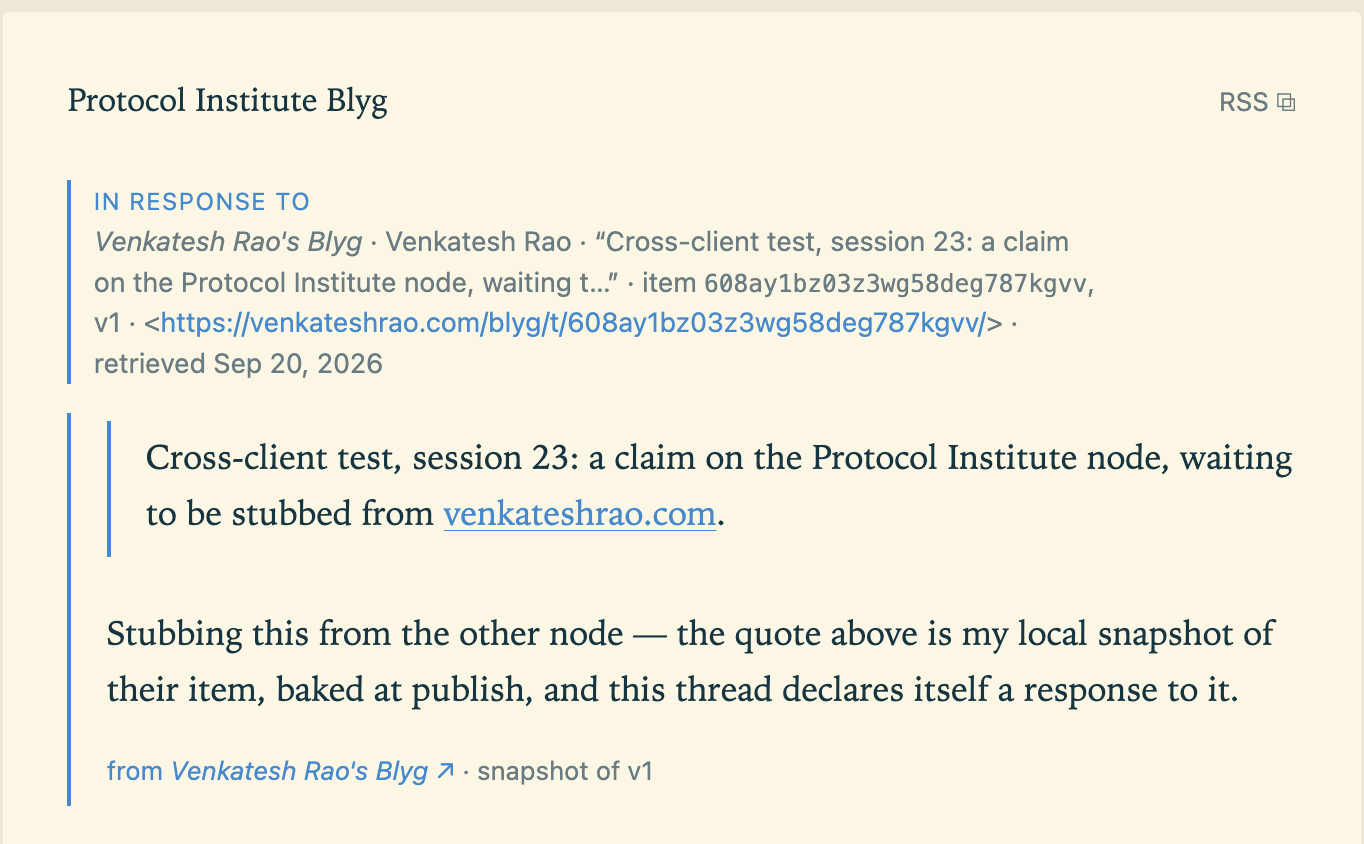
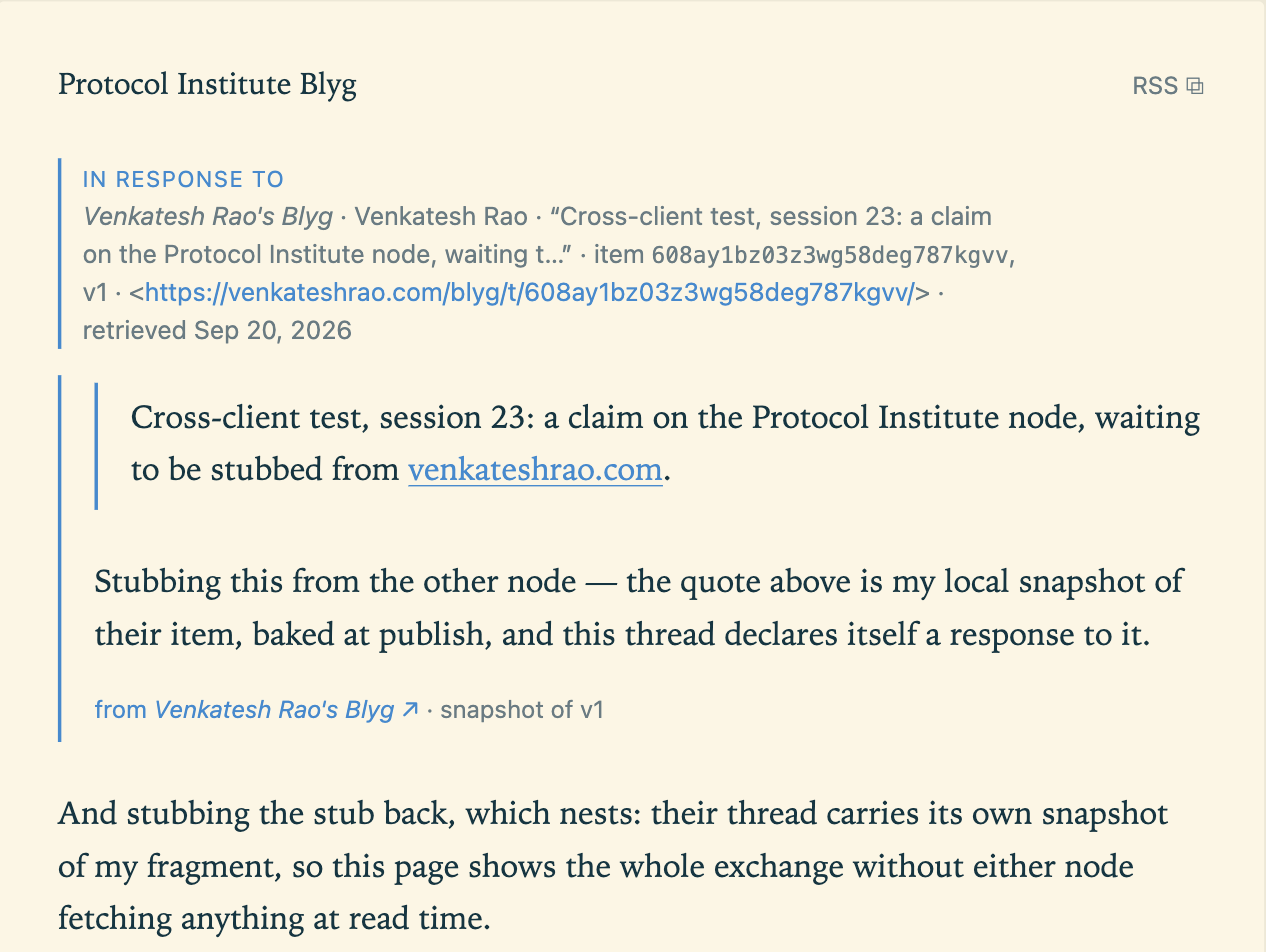
Re-shoot every screenshot; fix a slide that was wrong about a live page
The screenshot slides were unreadable from a room. The old captures were
full-page shots at 100% zoom with the content column filling about a third
of the frame, so the thing each slide points at — the version line, the
provenance caption, the citation's fine print — landed near 10px at 1080p,
against the content guide's 24px floor. All six re-captured live at 1.35-1.6x
zoom in a narrow window and cropped to the artifact.

Slide 13 changed shape, not just scale. A three-pane capture of the whole
editor became the preview pane alone: the argument there is one visual fact —
these blocks are blue here and not blue there — and the source pane is
already covered as code on slide 10, in type the room can read. A portrait
crop was tried and rejected after measuring, because a tall image is
height-constrained and starves at four bullets exactly as the guide warns.

Two things fell out of the re-shoot:

- The venkateshrao node's theme is now dark, so its session-21 screenshots
  were stale as well as small. Both nodes are now shot as they actually
  render, and slide 08 gets a cue turning the mismatch into the point it
  actually is: themes are the author's, and the protocol's only claim about
  them is the CSS contract.

- Slide 11 was wrong. It said "One of these I wrote. One a model wrote." The
  live item document has two generated scopes and both paragraphs carry
  blyg-tk-gen; the only thing written by hand is the one-line heading. This
[…]

Changed region(s): [[0.0308, 0.0616, 0.955, 0.9858], [0.8934, 0.0616, 0.955, 0.154]]

diff --git a/talks/2026-09-24-blygger/talk.md b/talks/2026-09-24-blygger/talk.md
@@ -133,7 +133,7 @@ naming its cost. Sets up pins (slide 15) as the answer without spending the word
 
 ## A blyg is fragments and threads
 
-![The public page of Venkatesh Rao's Blyg, showing a fragment titled Shopping List with a version line reading v3, pinned v1 and v3.](images/public-feed.jpg)
+![A fragment on Venkatesh Rao's Blyg, in his chosen dark theme: the heading "Shopping List", a nine-item numbered list, and beneath it a version line reading "v3 · pinned: v1, v3" followed by created and most-recent dates.](images/public-feed.png)
 
 - Two units, not one: a **fragment** (a note) and a **thread** (fragments composed)
 - Every item wears its own revision history in public — `v3 · pinned: v1, v3`
@@ -155,7 +155,7 @@ page furniture.
 
 ## Transclusion: quote by reference
 
-![A thread page showing a quoted fragment in a blockquote with a blue rule, captioned "fragment, snapshot of v2".](images/transclusion.jpg)
+![A thread on Venkatesh Rao's Blyg: one line of the author's own text, then a quoted fragment set off by a blue vertical rule, captioned "fragment ↗ · snapshot of v2".](images/transclusion.png)
 
 - Write `![[id]]` on its own line — you get the fragment, not a link to it
 - Snapshotted at publish: the reader gets the bytes you saw, forever
@@ -190,8 +190,11 @@ difference between transclusion-as-embed (which breaks) and transclusion-as-snap
 
 - This is the same mechanism as two slides ago, across a network boundary. Live,
   between my two nodes, right now.
-- **Nobody can read this from the room — walk the shape:** citation block at the top,
-  their paragraph quoted inside it, my own text below. Three layers, one page.
+- Three layers, top to bottom: the citation, their paragraph quoted inside it, my own
+  text below. Point at each.
+- **The colour is not a slide mistake** — it's a different person's blyg, and themes
+  are the author's. The protocol has no opinion about them; the CSS contract only says
+  which classes a quote must keep.
 - **The snapshot is local.** I quote what I read. Their server being down can't stop me
   publishing, and their later edit can't rewrite my quote.
 - The header block is the citation — what it answers, at which version, with the URL
@@ -260,14 +263,15 @@ and then demonstrated on the next two slides.
 
 ## Which paragraph was generated?
 
-![A published thread on the Protocol Institute blyg. Two paragraphs of prose about the origins of life, with no visual marking distinguishing generated text.](images/tk-published.jpg)
+![A published thread on the Protocol Institute blyg: a one-line heading, then two paragraphs of prose about the origins of life, with nothing visually distinguishing any of it as generated.](images/tk-published.png)
 
-- A real published page. One of these I wrote. One a model wrote.
+- A real published page. **How much of this did a model write?**
 
 **Cues**
 
-- Real published page from the other node. Two paragraphs. One mine, one a model's.
+- Real published page from the other node. A heading and two paragraphs.
 - **Ask the room. Let it sit.** Take a guess or two. Do not answer on this slide.
+- Expect someone to pick the short one. The long confident paragraph reads as human.
 
 **Notes**
 
@@ -285,7 +289,8 @@ two, then advance.
 
 **Cues**
 
-- Answer: you can't tell. Nothing on the page marks it.
+- **Answer: both paragraphs.** The only thing I wrote is the one-line heading.
+- You couldn't tell. Nothing on the page marks it.
 - Show what the page *does* carry: JSON provenance; the class, visible in view-source
   in three seconds.
 - **Why no tint:** provenance is self-asserted, nothing verifies it, a colour would
@@ -301,34 +306,37 @@ its least comfortable.
 
 ## Writing it
 
-![The blygger studio editing the same thread: markdown source on the left showing two TK scopes with their instructions and source references, a live preview on the right with the generated blocks tinted, and a TK scopes panel listing both instructions with regenerate buttons.](images/studio-composer.png)
+![The live preview pane inside the blygger studio, showing the same page as two slides ago — the same heading and the same two paragraphs — except that both paragraphs now sit in tinted blue blocks marking them as generated.](images/studio-preview.png)
 
-- The same thread you just saw published — the other side of it
-- **The preview tints the generated blocks. The published page doesn't.**
+- The same page you just saw, in my editor — **the same bytes**
+- The studio tints what was generated. The published page doesn't.
+- I need to see it. A reader can't verify it. Two surfaces, two obligations.
 - The protocol governs only the page. Everything else here is my client's choice.
 
 **Cues**
 
-- Same thread as the last two slides, seen from the author's side.
-- Walk the shape before the detail: source left, preview right, scope panel below.
-  Nobody can read the text from the room and they don't need to.
-- Point at the scope panel: instructions survive generating. Nothing is thrown away,
-  and regenerate is one click.
-- Left pane, if anyone asks: `[TK] Summarize this ![[id]] [=] …output… [/TK]`.
-- **The tinting is the punchline.** The studio highlights what was generated because
-  I'm the author and I need to see it. The published page doesn't, because a reader
-  can't verify the claim. Same bytes, two surfaces, different obligations.
+- Flip back one slide if you can. Same heading, same two paragraphs, tinted here and
+  plain there. **That contrast is the whole slide.**
+- Why the studio marks it: I am the author and I have to know what I still owe a read.
+- Why the page doesn't: nothing verifies the claim, so a colour would start meaning
+  "verified" — and a badge that looks authoritative and isn't is worse than no badge.
+- Not shown, mention it: the editor keeps the *instructions* beside the output, so
+  regenerating is one click and nothing is thrown away.
 - Everything on this screen is my client's choice and no part of the standard. A
   completely different studio isn't non-compliant — it's just a different studio.
 
 **Notes**
 
 The strongest argument for the studio/page split, because it's visible rather than
-asserted: put this slide next to slide 09 and the same paragraph is tinted in one and
+asserted: put this slide next to slide 11 and the same paragraphs are tinted in one and
 plain in the other. That contrast was not planned — it fell out of decision #25 and the
-studio's own preview highlighting, and it does the explaining better than the prose
-did. The original bullets here described the interface instead, which was the weaker
-slide.
+studio's own preview highlighting, and it does the explaining better than the prose did.
+
+Round 2 cropped the image from a three-pane capture of the whole editor to the preview
+pane alone. The wide shot was unreadable from a room, and worse, it spent the slide on
+interface furniture when the argument is one visual fact: *these blocks are blue here
+and not blue there*. The source pane's content is already covered as code on slide 10,
+where it is set in type the room can actually read.
 
 # How it works
 

diff --git a/talks/2026-09-24-blygger/brief.md b/talks/2026-09-24-blygger/brief.md
@@ -60,6 +60,35 @@ single biggest claim in the deck had gone stale in the author's favour. What cha
   can be shown from the studio, but nothing has been forked in public yet, so there is
   no finished example on a page. Publishing one is Venkat's call — it is content on his
   own blyg, not a deploy.
+- **Every screenshot re-shot or re-cropped** (Venkat: the screenshot slides were
+  hard to read). The old captures were full-page shots at 100% zoom with the content
+  column occupying about a third of the frame, so the thing each slide pointed at —
+  the version line, the provenance caption, the citation's fine print — rendered
+  around 10px at 1080p, against the guide's 24px floor. Re-captured live at 1.35–1.6×
+  browser zoom in an 860px window and cropped to the artifact, which is roughly a 3×
+  gain in apparent size. `images/` is now all PNG; the old JPEGs are gone.
+  - **Slide 13 changed shape, not just size.** It was a three-pane capture of the whole
+    editor, and the brief already admitted nobody could read it. The argument is one
+    visual fact — *these blocks are blue here and not blue there* — so it is now the
+    preview pane alone, croppable to a landscape strip that the stage sizes on width.
+    The source pane's content is already covered as code on slide 10, in type the room
+    can read. Bullets and cues rewritten to match; a portrait first attempt was
+    rejected after measuring, because a tall image is height-constrained and starved
+    at four bullets exactly as the guide warns.
+- **The venkateshrao screenshots were stale, not just small.** That node's theme is now
+  dark; the session-21 captures are light. Both nodes are now shot as they actually
+  render, which means slides 06/07 are dark and 08/09/11 are light. That is a real
+  difference between two people's sites, so slide 08 gets a cue that says so —
+  themes are the author's, and the protocol's only claim about them is the CSS
+  contract. If the mixed palette reads as an accident from the room, the fix is to
+  set both nodes to the same theme and re-shoot, not to fake one.
+- **Slide 11 was factually wrong and is fixed.** It said "One of these I wrote. One a
+  model wrote." The live item document says two generated scopes, both paragraphs
+  carrying `blyg-tk-gen`, `claude-opus-5` — the only thing Venkat wrote is the one-line
+  heading. This is a page the audience can inspect in three seconds, which is the exact
+  failure the every-example-is-real rule exists to prevent. The question is now "**How
+  much of this did a model write?**", the answer moved onto slide 12's cues, and the
+  slide got stronger: the room will assume the long confident paragraph is human.
 - **One cue direction fixed:** the no-counts point is now *planted* on slide 09 and
   *collected* on slide 16 ("You don't get a username"), not described as a callback on
   the earlier slide — it comes first now, so it sets the beat up rather than paying
@@ -145,6 +174,14 @@ unhedged ("eventual consistency", "AP under partition", "enshrined"). The UX sec
 - **Whether this belongs on blygger.org at all.** Session 20 settled the site's genres
   as normative text + technical notes; a talk is a third. Built under `/talks/` on the
   assumption that Venkat asking for it settles it, but it is one directory to delete.
+- **Slide 07's example is still scratch content.** The only *local* transclusion
+  published on either node is `venkateshrao.com/blyg/t/1vgtgz0g…`, whose prose is
+  "The famous blyg" / "This is NOT the most famous blyg ever" / "Heading test" /
+  "Quick brown fox". Round 2 cropped to the first quoted block, which hides most of it
+  and shows the mechanism cleanly — but the two visible lines are still obviously a
+  test fixture, in a deck whose stated rule is that every example is real. Every other
+  thread on that node has `transclusions: []`. Ten minutes of authoring would fix it;
+  it is content on the live blyg, so it is Venkat's call, same as the fork example.
 - **Round 2: is 24 slides too many for an unstated slot?** The cut order above is a
   recommendation, not a decision. If the slot turns out to be 15 minutes the deck needs
   a real edit rather than four cuts, and the section to compress is the opening (05) plus

diff --git a/status.md b/status.md
@@ -84,6 +84,18 @@
   same day, was nowhere in the deck (the new slides were written before it existed).
   Added as one bullet on the pins slide — forking is what a pin's promise is *for* —
   with a cue saying not to offer a demo, since it is the only claim in the deck with
+  Then a **screenshot pass** (Venkat: the screenshot slides were hard to read). Every
+  image re-shot live at 1.35–1.6× zoom and cropped to the artifact — roughly 3× the
+  apparent size, against a guide floor of 24px at 1080p that the old full-page captures
+  missed by half. Slide 13 changed shape rather than scale: a three-pane editor capture
+  became the preview pane alone, because the argument is one visual fact. Two findings
+  fell out of it: the venkateshrao node's theme is now **dark**, so its session-21
+  screenshots were stale as well as small (both nodes now shot as they render, with a
+  cue turning the mismatch into the themes-are-the-author's point); and **slide 11 was
+  factually wrong** — it claimed one of two paragraphs was human-written, but the live
+  item document has two generated scopes and both paragraphs carry `blyg-tk-gen`. The
+  slide now asks "how much of this did a model write", which is both true and better.
+
   no live artifact behind it — which stopped being true
   the same evening: task 11 went to both nodes, so the cue was corrected to say the
   mechanism is live but no public fork exists yet. **Deployed** — site live at
